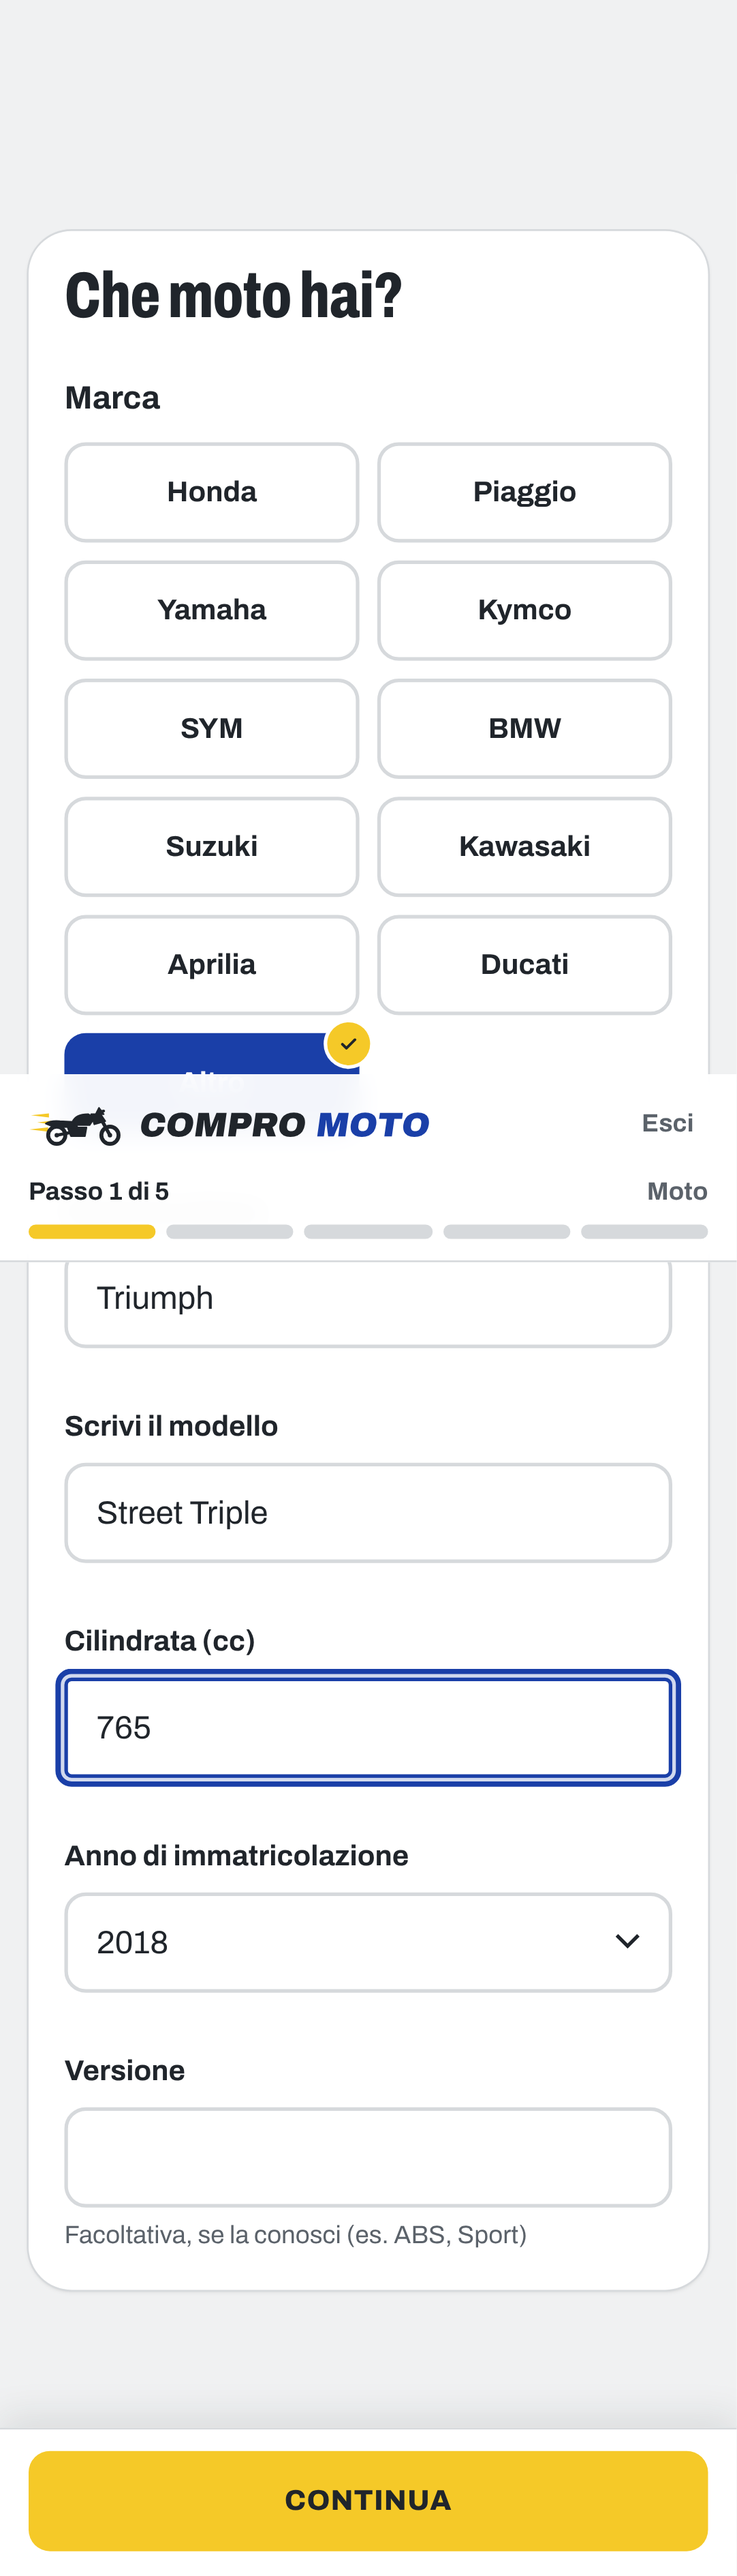
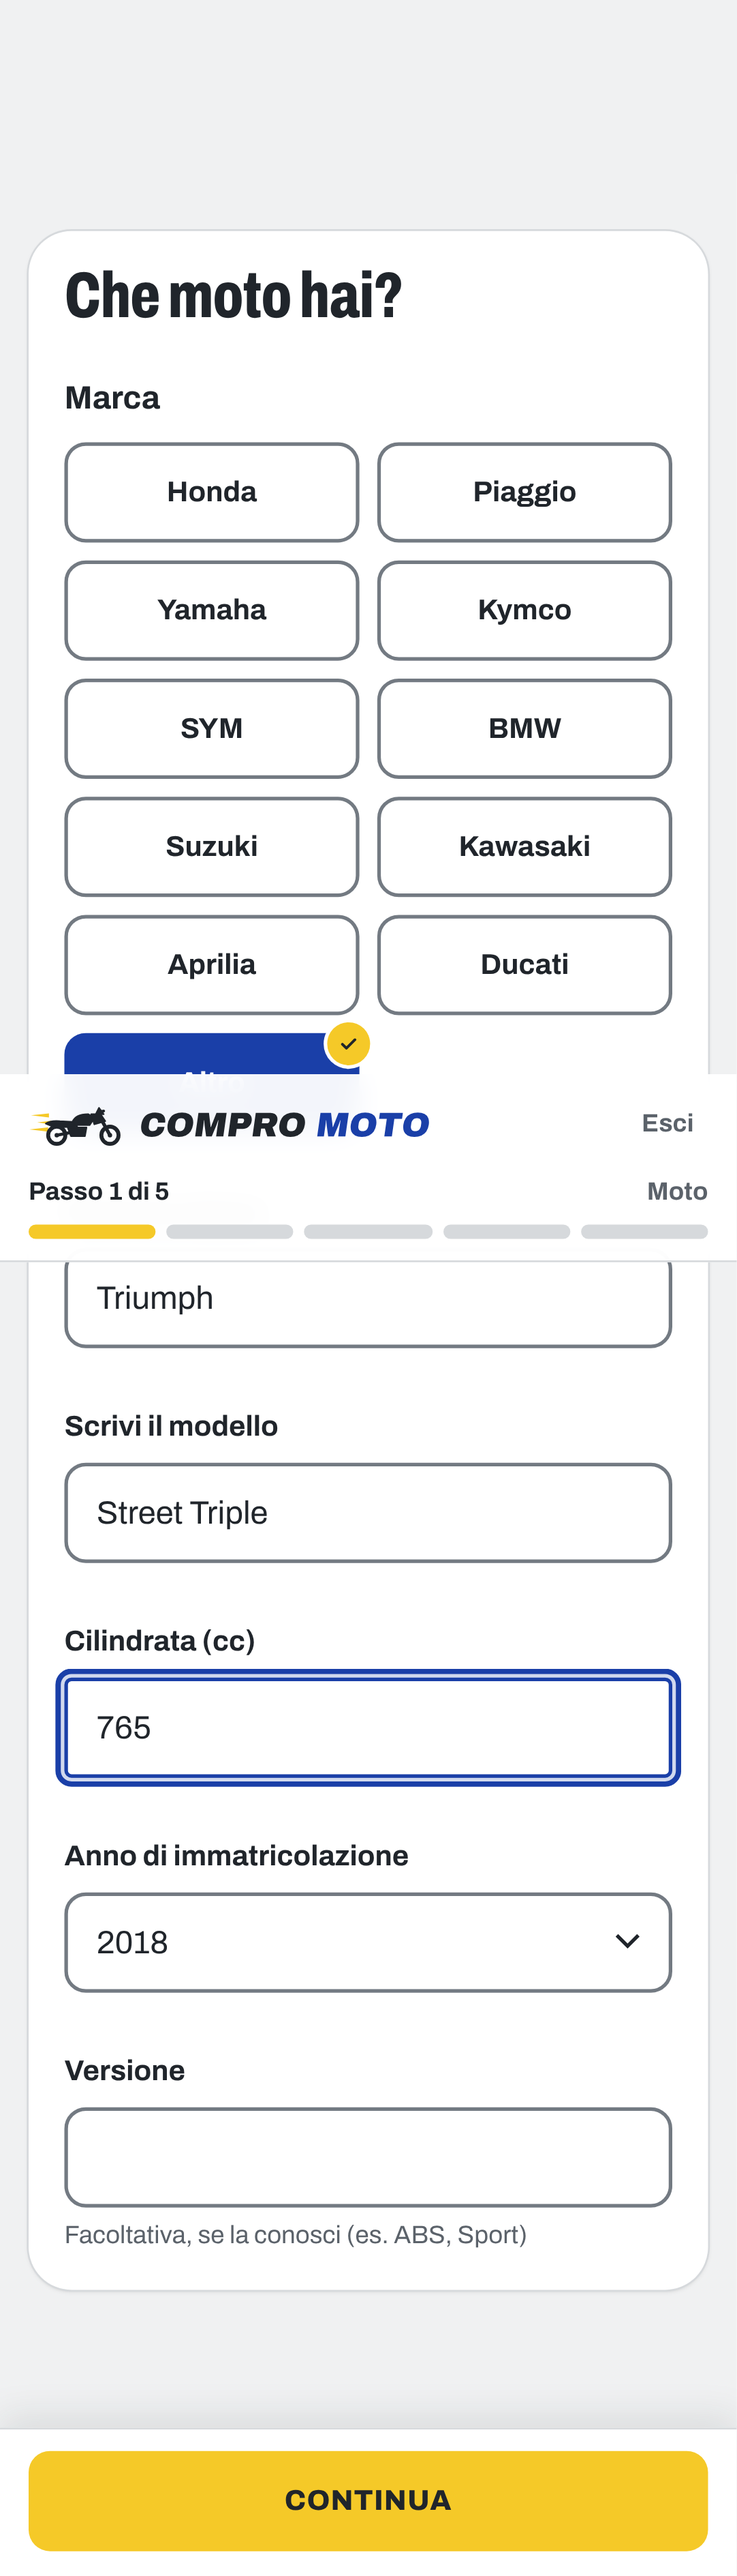
fix(a11y): contrasto bordi campi, segnaposto e cifre chilometraggio; anteprime 01-09 rigenerate
Claude-Session: https://claude.ai/code/session_01RTZ9kDdjzDvBtAfBBartpB

diff --git a/src/modules/funnel/ui.tsx b/src/modules/funnel/ui.tsx
@@ -39,7 +39,7 @@ export function Choices<T extends string>({
               className="peer sr-only"
             />
             <span
-              className={`flex items-center justify-center rounded-xl border-2 border-line bg-paper px-3 text-center font-bold transition-colors duration-150 hover:border-asphalt-soft peer-checked:border-plate peer-checked:bg-plate peer-checked:text-paper peer-focus-visible:outline-3 peer-focus-visible:outline-offset-2 peer-focus-visible:outline-plate ${
+              className={`flex items-center justify-center rounded-xl border-2 border-field bg-paper px-3 text-center font-bold transition-colors duration-150 hover:border-asphalt-soft peer-checked:border-plate peer-checked:bg-plate peer-checked:text-paper peer-focus-visible:outline-3 peer-focus-visible:outline-offset-2 peer-focus-visible:outline-plate ${
                 size === "lg" ? "min-h-16 text-lg" : "min-h-14 text-base"
               }`}
             >
@@ -84,8 +84,8 @@ export function TextField({
         id={id}
         aria-invalid={!!error}
         aria-describedby={error ? `${id}-err` : hint ? `${id}-hint` : undefined}
-        className={`h-14 w-full rounded-xl border-2 bg-paper px-4 text-lg outline-none transition-colors placeholder:text-concrete/70 focus:border-plate focus:ring-4 focus:ring-plate/20 ${
-          error ? "border-danger bg-danger/5" : "border-line"
+        className={`h-14 w-full rounded-xl border-2 bg-paper px-4 text-lg outline-none transition-colors placeholder:text-concrete focus:border-plate focus:ring-4 focus:ring-plate/20 ${
+          error ? "border-danger bg-danger/5" : "border-field"
         }`}
         {...props}
       />
@@ -115,7 +115,7 @@ export function SelectField({
         id={id}
         aria-invalid={!!error}
         className={`h-14 w-full appearance-none rounded-xl border-2 bg-paper bg-[length:14px] bg-[right_1rem_center] bg-no-repeat px-4 pr-10 text-lg outline-none focus:border-plate focus:ring-4 focus:ring-plate/20 ${
-          error ? "border-danger bg-danger/5" : "border-line"
+          error ? "border-danger bg-danger/5" : "border-field"
         }`}
         style={{
           backgroundImage:

diff --git a/tests/frontend.test.ts b/tests/frontend.test.ts
@@ -183,6 +183,19 @@ test("palette: antracite, giallo segnale, blu targa, grigio chiaro", () => {
   for (const c of ["#20252b", "#f5c928", "#1a3fa8", "#f0f1f2"]) assert.ok(css.toLowerCase().includes(c), c);
 });
 
+test("contrasto WCAG: coppie di colori del brand (testo 4.5:1, bordi dei controlli 3:1)", () => {
+  const css = readFileSync("src/app/globals.css", "utf8");
+  const tok = (n: string) => css.match(new RegExp(`--color-${n}:\\s*(#[0-9a-fA-F]{6})`))![1];
+  const lum = (hex: string) => {
+    const [r, g, b] = [1, 3, 5].map((i) => parseInt(hex.slice(i, i + 2), 16) / 255).map((v) => (v <= 0.03928 ? v / 12.92 : ((v + 0.055) / 1.055) ** 2.4));
+    return 0.2126 * r + 0.7152 * g + 0.0722 * b;
+  };
+  const ratio = (a: string, b: string) => (Math.max(lum(a), lum(b)) + 0.05) / (Math.min(lum(a), lum(b)) + 0.05);
+  const text: [string, string][] = [["plate", "chalk"], ["plate", "paper"], ["signal", "asphalt"], ["signal", "asphalt-raised"], ["asphalt", "signal"], ["paper", "plate"], ["signal", "plate"], ["concrete", "paper"], ["asphalt-soft", "chalk"], ["asphalt", "chalk"]];
+  for (const [fg, bg] of text) assert.ok(ratio(tok(fg), tok(bg)) >= 4.5, `${fg} su ${bg}: ${ratio(tok(fg), tok(bg)).toFixed(2)}`);
+  for (const bg of ["paper", "chalk"]) assert.ok(ratio(tok("field"), tok(bg)) >= 3, `bordo campi su ${bg}`);
+});
+
 // ---- Contatti: WhatsApp e telefono separati ----------------------------------------------------------------------------
 test("contatti: con i segnaposto non c'è nessun pulsante né link (WhatsApp e telefono)", () => {
   assert.equal(hasPhone(), false);

diff --git a/src/modules/funnel/steps/PhotoStep.tsx b/src/modules/funnel/steps/PhotoStep.tsx
@@ -127,7 +127,7 @@ export function PhotoStep({
             type="button"
             onClick={() => inputRef.current?.click()}
             disabled={busy}
-            className={`flex flex-col items-center justify-center gap-1.5 rounded-xl border-2 border-dashed border-plate/50 bg-plate/5 font-bold text-plate transition-colors hover:bg-plate/10 ${
+            className={`flex flex-col items-center justify-center gap-1.5 rounded-xl border-2 border-dashed border-plate bg-plate/5 font-bold text-plate transition-colors hover:bg-plate/10 ${
               photos.length === 0 ? "col-span-3 min-h-36" : "aspect-square"
             }`}
           >

diff --git a/src/app/page.tsx b/src/app/page.tsx
@@ -234,7 +234,7 @@ export default function Home() {
                   </div>
                 </li>
               ))}
-              <li className="flex flex-col justify-between rounded-2xl border-2 border-dashed border-asphalt-soft/40 bg-paper p-5">
+              <li className="flex flex-col justify-between rounded-2xl border-2 border-dashed border-asphalt-soft/70 bg-paper p-5">
                 <div>
                   <span className="flex h-11 w-11 items-center justify-center rounded-full bg-asphalt text-signal">
                     <IconPlus className="h-6 w-6" />

diff --git a/src/modules/funnel/steps/KmStep.tsx b/src/modules/funnel/steps/KmStep.tsx
@@ -42,7 +42,7 @@ export function KmStep({
               className="tabular relative flex h-20 flex-1 items-center justify-center overflow-hidden rounded-lg bg-[#2b3138] sm:h-24"
             >
               <span
-                className={`display text-[2.6rem] sm:text-6xl ${real ? "digit-roll text-paper" : "text-paper/15"}`}
+                className={`display text-[2.6rem] sm:text-6xl ${real ? "digit-roll text-paper" : "text-paper/45"}`}
               >
                 {d}
               </span>

diff --git a/src/app/globals.css b/src/app/globals.css
@@ -17,6 +17,8 @@
   --color-signal-soft: #ffd84d;
   --color-concrete: #5b626a;
   --color-line: #d6d9dc;
+  /* bordo dei campi e dei controlli: almeno 3:1 su bianco e su grigio chiaro (WCAG 1.4.11) */
+  --color-field: #737a82;
   --color-ok: #1f7a52;
   --color-danger: #b3261e;
 

diff --git a/docs/anteprime/README.md b/docs/anteprime/README.md
@@ -3,7 +3,7 @@
 Schermate generate dalla **build di produzione locale** (database e storage temporanei, nessun dato reale, sito non
 pubblicato). Telefono simulato: Pixel 7 (412 px); desktop 1280 x 800.
 
-Schermate aggiornate al miglioramento visivo (fascia vantaggi, gerarchia titoli, CTA sulle card). Le schermate `07*` e `08*` (contatti) sono della versione precedente. Il sito **non usa fotografie né illustrazioni**: dove andranno le foto c'è una composizione di colori e tipografia.
+Tutte le schermate (01–09) documentano la stessa versione: miglioramento visivo (fascia vantaggi, gerarchia titoli, CTA sulle card) e correzioni di contrasto (bordi dei campi, cifre segnaposto del chilometraggio). Il sito **non usa fotografie né illustrazioni**: dove andranno le foto c'è una composizione di colori e tipografia.
 Foto da procurare: [docs/IMMAGINI-DA-FORNIRE.md](../IMMAGINI-DA-FORNIRE.md).
 
 | File | Cosa mostra |
